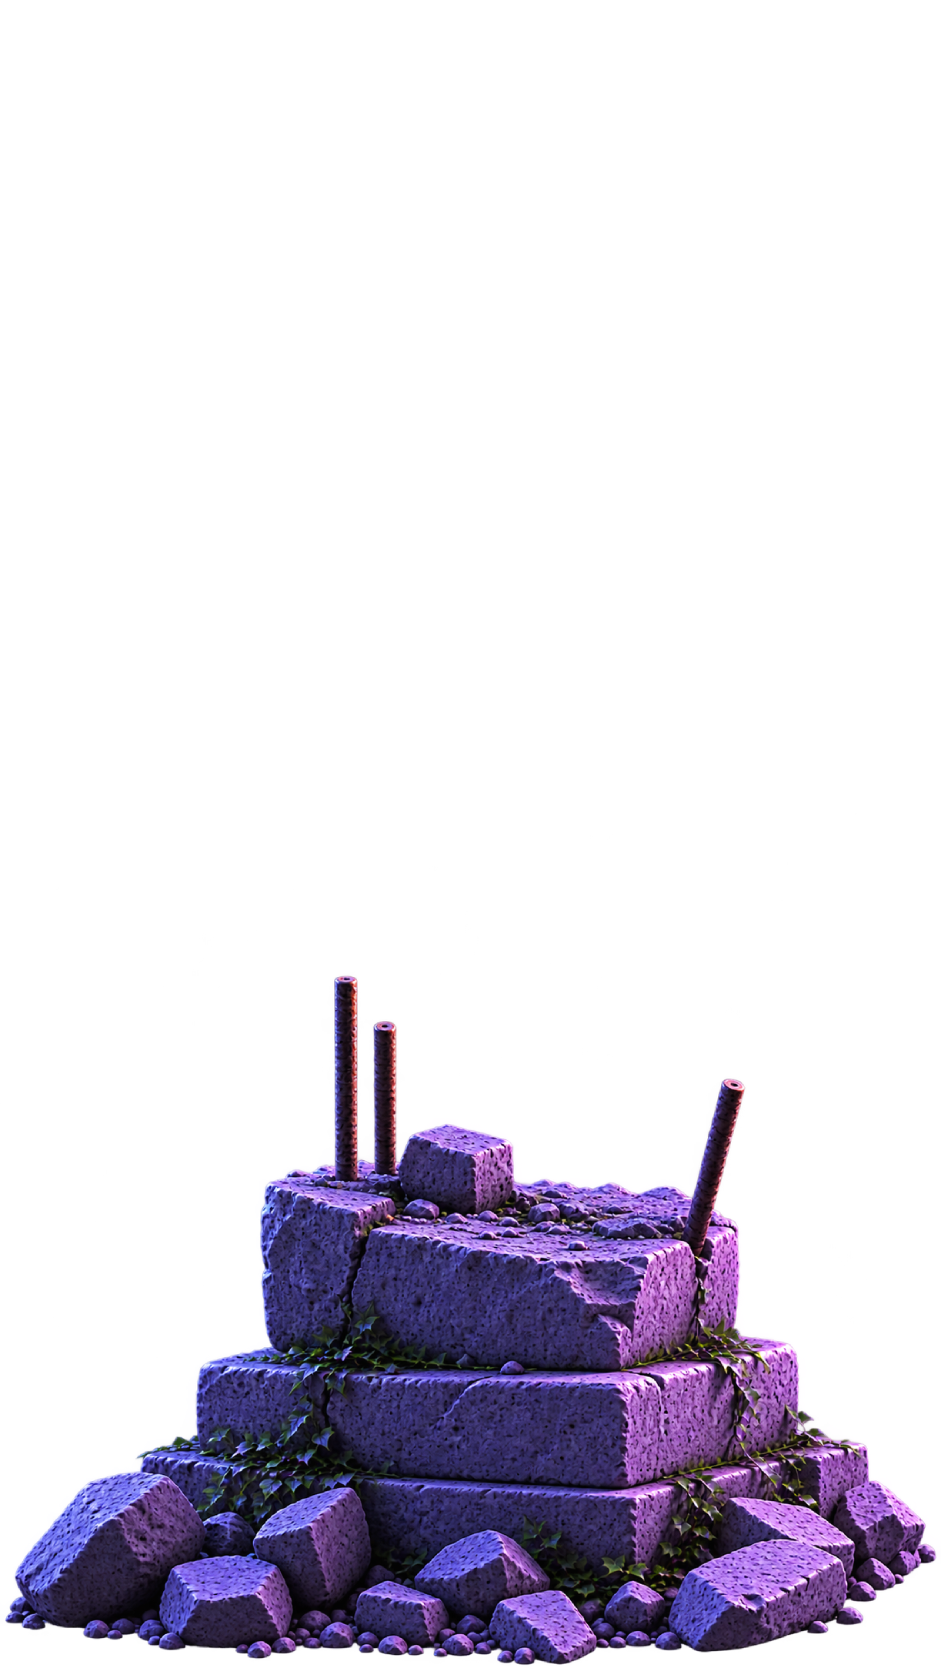
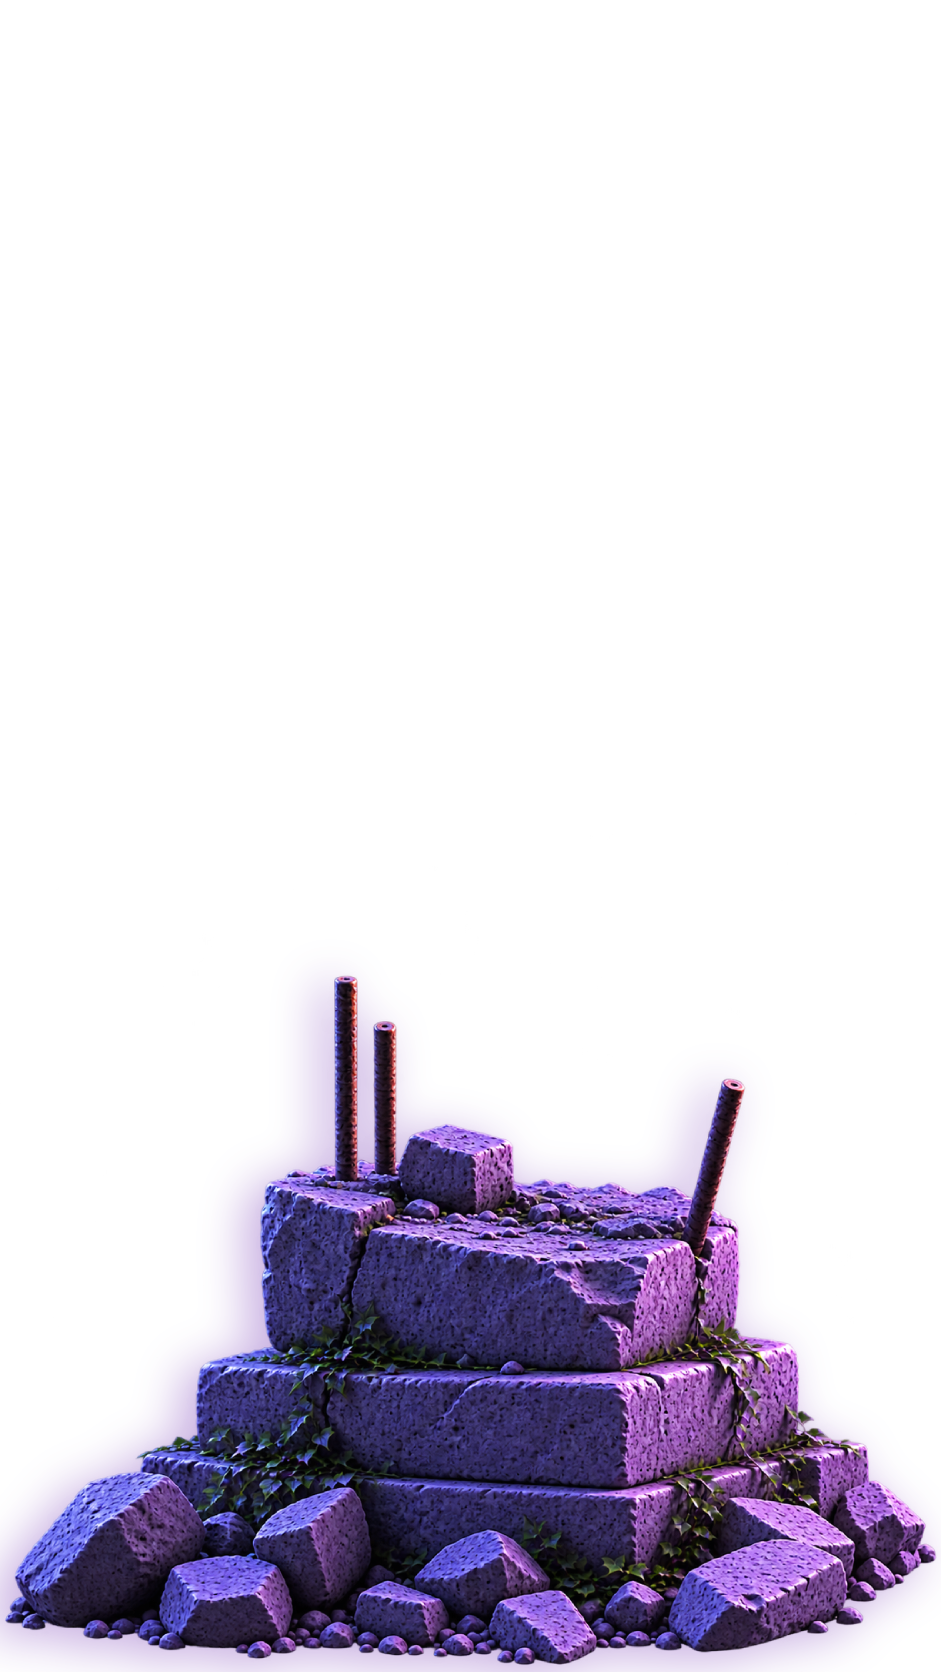
Enhancements

diff --git a/styles.css b/styles.css
@@ -1051,6 +1051,16 @@ body.t-modal-open { overflow: hidden; }
   width: 100%;
   aspect-ratio: 9 / 16;
   object-fit: cover;
+  border-radius: 6px;
+  transform: scale(1);
+  transition: transform .6s ease, filter .9s ease;
+  filter: drop-shadow(0 0 0 rgba(168, 85, 247, 0));
+}
+
+.pillar:hover .pillar-media {
+  transform: scale(1.008);
+  filter: drop-shadow(0 0 14px rgba(168, 85, 247, calc(var(--glow, .4) * .45)))
+          drop-shadow(0 0 5px  rgba(168, 85, 247, calc(var(--glow, .4) * .28)));
 }
 
 .pillar-title {
@@ -1062,6 +1072,12 @@ body.t-modal-open { overflow: hidden; }
   letter-spacing: -0.01em;
   color: var(--color-text);
   text-align: center;
+  transform: scale(1);
+  transition: transform .6s ease;
+  will-change: transform;
+}
+.pillar:hover .pillar-title {
+  transform: scale(1.012);
 }
 
 .pillar-desc {
@@ -1072,7 +1088,14 @@ body.t-modal-open { overflow: hidden; }
   line-height: 1.5;
   color: var(--color-muted);
   text-align: center;
+  transform: scale(1);
+  transition: transform .6s ease;
+  will-change: transform;
 }
+.pillar:hover .pillar-desc {
+  transform: scale(1.012);
+}
+
 .pillar-desc strong {
   color: var(--color-text);
   font-weight: 600;

diff --git a/main.js b/main.js
@@ -1206,6 +1206,7 @@ var PILLAR_ITEMS = [
 
     var card = document.createElement('figure');
     card.className = 'pillar';
+    card.style.setProperty('--glow', 0.2 + 0.12 * n);
 
     var img = document.createElement('img');
     img.className = 'pillar-media';
